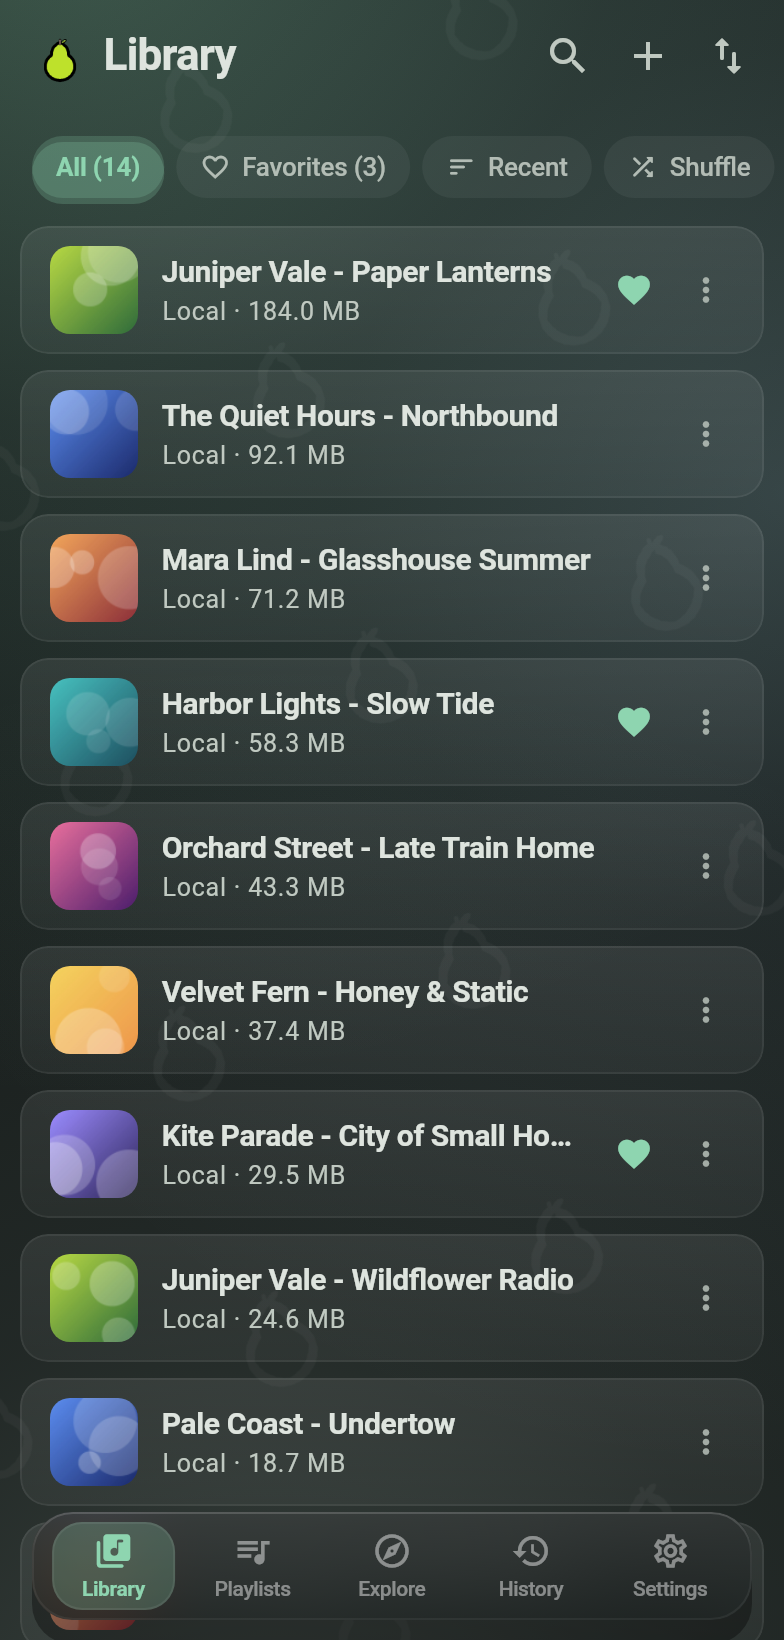
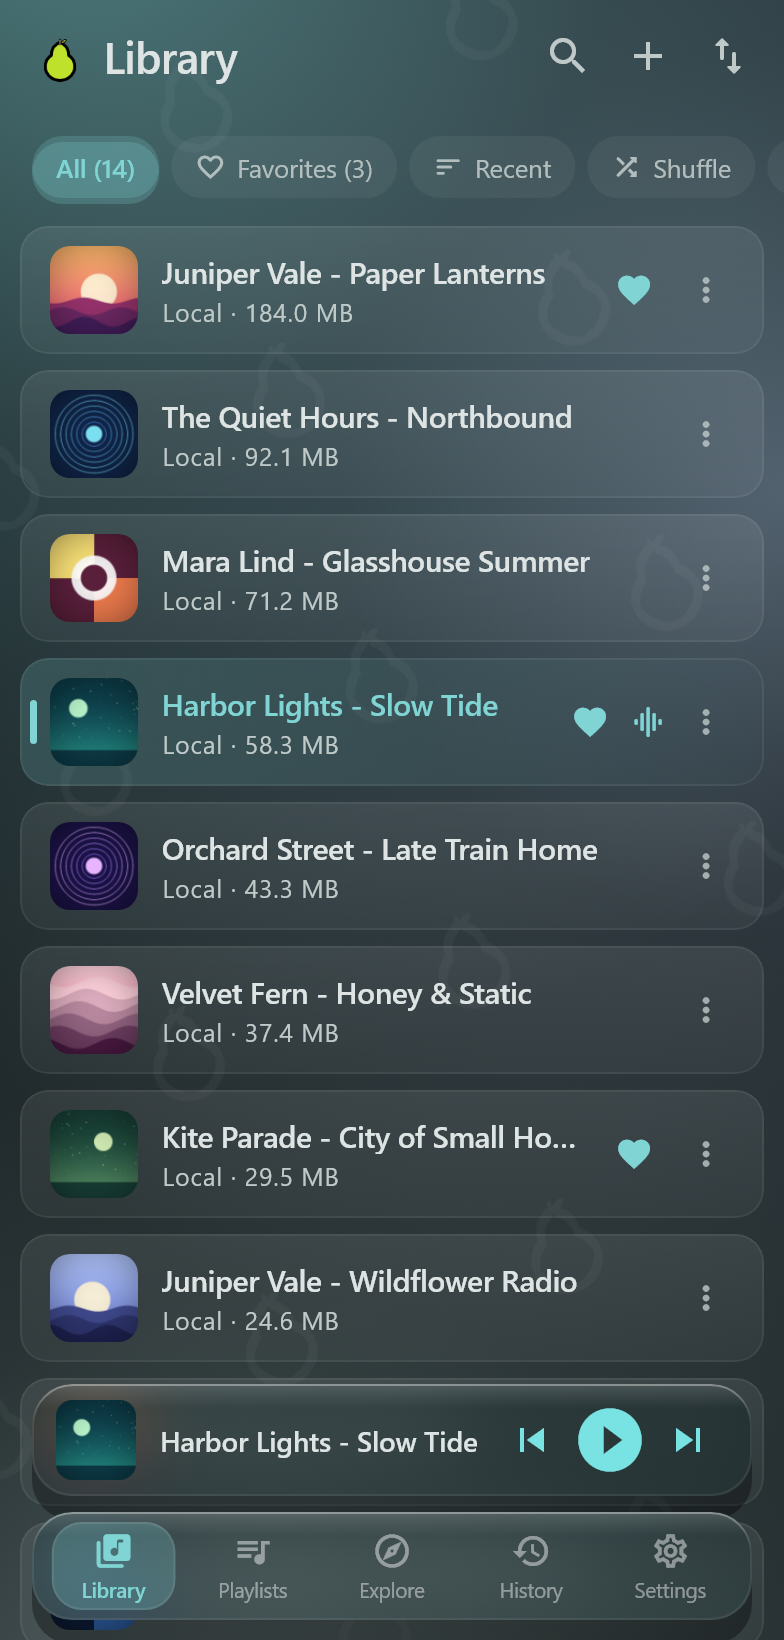
docs: the README shows the current look with sharper screenshots, the expanded player with its Video button and a phone player shot, and says what the first Android install asks for

diff --git a/app/tool/readme_shots/readme_shots_test.dart b/app/tool/readme_shots/readme_shots_test.dart
@@ -25,6 +25,9 @@ import 'package:peerm_app/services/identity_service.dart';
 import 'package:peerm_app/services/library_service.dart';
 import 'package:peerm_app/services/player_service.dart';
 import 'package:peerm_app/services/player_theme.dart';
+import 'package:peerm_app/services/video_service.dart';
+import 'package:peerm_app/screens/home_shell.dart';
+import 'package:peerm_app/widgets/player_bar.dart';
 import 'package:peerm_app/services/youtube_service.dart';
 import 'package:shared_preferences/shared_preferences.dart';
 
@@ -45,48 +48,150 @@ const _titles = [
   ('Blue Hour', 'Harbor Lights', 4),
 ];
 
+// Sky, ground and accent colours for the cover styles below.
 const _palettes = [
-  [0xFFB8D943, 0xFF2E6B3A],
-  [0xFF5B8DEF, 0xFF1B2A6B],
-  [0xFFF2A65A, 0xFF8C2F39],
-  [0xFF47C1BF, 0xFF1D4E5F],
-  [0xFFE86F9C, 0xFF4B1D6B],
-  [0xFFF4D35E, 0xFFEE964B],
-  [0xFF9B8CFF, 0xFF2B2356],
+  [0xFFFFB86B, 0xFFE0457B, 0xFF3B1B5A],
+  [0xFF7BDFF2, 0xFF3A7BD5, 0xFF0F2447],
+  [0xFFF9E076, 0xFFEE7B4D, 0xFF5A1F3B],
+  [0xFFB8F2C9, 0xFF2BA89A, 0xFF0C3B47],
+  [0xFFE8B4FF, 0xFF7F5AF0, 0xFF1A1245],
+  [0xFFFFD1DC, 0xFFFF6F91, 0xFF4A1942],
+  [0xFFCDE7B0, 0xFF6BAA75, 0xFF173F35],
+  [0xFFB2C7FF, 0xFF5C6BC0, 0xFF1B1F4D],
 ];
 
-/// A soft two-colour gradient with a few circles: reads as cover art at
-/// thumbnail size without being anyone's real artwork.
+img.ColorRgb8 _rgb(int c) =>
+    img.ColorRgb8((c >> 16) & 255, (c >> 8) & 255, c & 255);
+
+img.ColorRgb8 _mix(int a, int b, double t) {
+  final x = _rgb(a), y = _rgb(b);
+  return img.ColorRgb8(
+    (x.r + (y.r - x.r) * t).round(),
+    (x.g + (y.g - x.g) * t).round(),
+    (x.b + (y.b - x.b) * t).round(),
+  );
+}
+
+/// A composed cover (sunset hills, rings, waves, blocks, night sky) in a
+/// curated palette: reads as real album art without being anyone's.
 String _cover(int seed) {
   final pal = _palettes[seed % _palettes.length];
-  final a = img.ColorRgb8((pal[0] >> 16) & 255, (pal[0] >> 8) & 255, pal[0] & 255);
-  final b = img.ColorRgb8((pal[1] >> 16) & 255, (pal[1] >> 8) & 255, pal[1] & 255);
-  const size = 320;
+  final style = (seed ~/ 2 + seed) % 5;
+  const size = 360;
   final image = img.Image(width: size, height: size);
+  final rnd = math.Random(seed * 53 + 11);
+
+  // Vertical sky gradient for every style.
+  for (var y = 0; y < size; y++) {
+    final t = y / (size - 1);
+    final c = _mix(pal[0], pal[1], math.pow(t, 1.15).toDouble());
+    for (var x = 0; x < size; x++) {
+      image.setPixel(x, y, c);
+    }
+  }
+
+  switch (style) {
+    case 0: // sunset hills
+      img.fillCircle(image,
+          x: size ~/ 2 + rnd.nextInt(60) - 30,
+          y: (size * 0.52).round(),
+          radius: 74,
+          color: img.ColorRgba8(255, 244, 214, 235),
+          antialias: true);
+      for (var layer = 0; layer < 3; layer++) {
+        final base = size * (0.62 + layer * 0.12);
+        final c = _mix(pal[1], pal[2], 0.45 + layer * 0.25);
+        final phase = rnd.nextDouble() * 6;
+        for (var x = 0; x < size; x++) {
+          final y = base + math.sin(x / 38 + phase) * (12 + layer * 4);
+          img.drawLine(image,
+              x1: x, y1: y.round(), x2: x, y2: size, color: c);
+        }
+      }
+    case 1: // rings
+      img.fill(image, color: _rgb(pal[2]));
+      for (var i = 0; i < 7; i++) {
+        final r = 160 - i * 22;
+        img.drawCircle(image,
+            x: size ~/ 2,
+            y: size ~/ 2,
+            radius: r,
+            color: _mix(pal[0], pal[1], i / 6),
+            antialias: true);
+        img.drawCircle(image,
+            x: size ~/ 2, y: size ~/ 2, radius: r - 1,
+            color: _mix(pal[0], pal[1], i / 6), antialias: true);
+        img.drawCircle(image,
+            x: size ~/ 2, y: size ~/ 2, radius: r - 2,
+            color: _mix(pal[0], pal[1], i / 6), antialias: true);
+      }
+      img.fillCircle(image,
+          x: size ~/ 2, y: size ~/ 2, radius: 34, color: _rgb(pal[0]),
+          antialias: true);
+    case 2: // waves
+      for (var band = 0; band < 6; band++) {
+        final c = _mix(pal[0], pal[2], band / 5);
+        final base = size * (0.18 + band * 0.14);
+        final phase = band * 0.9 + rnd.nextDouble();
+        for (var x = 0; x < size; x++) {
+          final y = base + math.sin(x / 46 + phase) * 22;
+          img.drawLine(image,
+              x1: x, y1: y.round(), x2: x, y2: size, color: c);
+        }
+      }
+    case 3: // blocks
+      img.fill(image, color: _rgb(pal[2]));
+      img.fillRect(image,
+          x1: 0, y1: 0, x2: size ~/ 2, y2: size ~/ 2,
+          color: _rgb(pal[0]));
+      img.fillRect(image,
+          x1: size ~/ 2, y1: size ~/ 2, x2: size, y2: size,
+          color: _rgb(pal[1]));
+      img.fillCircle(image,
+          x: size ~/ 2, y: size ~/ 2, radius: 92,
+          color: img.ColorRgba8(255, 255, 255, 235), antialias: true);
+      img.fillCircle(image,
+          x: size ~/ 2, y: size ~/ 2, radius: 54,
+          color: _rgb(pal[2]), antialias: true);
+    default: // night sky
+      for (var y = 0; y < size; y++) {
+        final c = _mix(pal[2], pal[1], math.pow(y / size, 2.2).toDouble());
+        for (var x = 0; x < size; x++) {
+          image.setPixel(x, y, c);
+        }
+      }
+      for (var i = 0; i < 46; i++) {
+        img.fillCircle(image,
+            x: rnd.nextInt(size), y: rnd.nextInt((size * 0.7).round()),
+            radius: 1 + rnd.nextInt(2),
+            color: img.ColorRgba8(255, 255, 255, 120 + rnd.nextInt(130)),
+            antialias: true);
+      }
+      img.fillCircle(image,
+          x: 90 + rnd.nextInt(180), y: 90 + rnd.nextInt(60), radius: 38,
+          color: _rgb(pal[0]), antialias: true);
+      img.fillRect(image,
+          x1: 0, y1: (size * 0.82).round(), x2: size, y2: size,
+          color: _rgb(pal[2]));
+  }
+
+  // A touch of vignette so flat colour has some depth at big sizes.
   for (var y = 0; y < size; y++) {
     for (var x = 0; x < size; x++) {
-      final t = ((x + y) / (2 * size)).clamp(0.0, 1.0);
+      final dx = (x - size / 2) / (size / 2);
+      final dy = (y - size / 2) / (size / 2);
+      final v = (dx * dx + dy * dy) * 0.18;
+      final c = image.getPixel(x, y);
       image.setPixelRgb(
         x,
         y,
-        (a.r * (1 - t) + b.r * t).round(),
-        (a.g * (1 - t) + b.g * t).round(),
-        (a.b * (1 - t) + b.b * t).round(),
+        (c.r * (1 - v)).round(),
+        (c.g * (1 - v)).round(),
+        (c.b * (1 - v)).round(),
       );
     }
   }
-  final rnd = math.Random(seed * 31 + 7);
-  for (var i = 0; i < 3; i++) {
-    img.fillCircle(
-      image,
-      x: rnd.nextInt(size),
-      y: rnd.nextInt(size),
-      radius: 40 + rnd.nextInt(90),
-      color: img.ColorRgba8(255, 255, 255, 28 + rnd.nextInt(40)),
-      antialias: true,
-    );
-  }
-  return base64Encode(img.encodeJpg(image, quality: 88));
+  return base64Encode(img.encodeJpg(image, quality: 90));
 }
 
 List<Song> _songs() => [
@@ -94,7 +199,8 @@ List<Song> _songs() => [
     Song(
       id: 'demo_$i',
       title: '${_titles[i].$2} - ${_titles[i].$1}',
-      fileName: 'demo_$i.mp3',
+      // A video container, so the player offers its Video button.
+      fileName: 'demo_$i.${i == 3 ? 'mp4' : 'mp3'}',
       size: _titles[i].$3 * 1024 * 1024 + i * 91234,
       checksum: 'demo_$i',
       artwork: _cover(i),
@@ -183,6 +289,7 @@ void main() {
       controller: controller,
       playerTheme: PlayerTheme(player),
       history: history,
+      video: VideoService(player, library),
     );
   }
 
@@ -193,6 +300,8 @@ void main() {
     required double dpr,
     Song? playing,
     TargetPlatform platform = TargetPlatform.android,
+    bool expandPane = false,
+    bool openPlayer = false,
   }) async {
     debugDefaultTargetPlatformOverride = platform;
     tester.view.physicalSize = size * dpr;
@@ -203,9 +312,25 @@ void main() {
       await tester.runAsync(() => Future<void>.delayed(const Duration(milliseconds: 150)));
       await tester.pump(const Duration(milliseconds: 400));
     }
+    if (expandPane) {
+      HomeShell.requestExpandedPane();
+      // The expanded player builds a new, larger artwork: give its decode
+      // real time too.
+      for (var i = 0; i < 8; i++) {
+        await tester.runAsync(() => Future<void>.delayed(const Duration(milliseconds: 150)));
+        await tester.pump(const Duration(milliseconds: 300));
+      }
+    }
+    if (openPlayer) {
+      await tester.tap(find.byType(PlayerBar));
+      for (var i = 0; i < 6; i++) {
+        await tester.runAsync(() => Future<void>.delayed(const Duration(milliseconds: 120)));
+        await tester.pump(const Duration(milliseconds: 350));
+      }
+    }
     await expectLater(find.byType(MaterialApp), matchesGoldenFile('../../../.github/screenshots/$name.png'));
     await tester.pumpWidget(const SizedBox());
-    await tester.pump(const Duration(seconds: 5));
+    await tester.pump(const Duration(seconds: 12));
     debugDefaultTargetPlatformOverride = null;
     tester.view.resetPhysicalSize();
     tester.view.resetDevicePixelRatio();
@@ -215,14 +340,32 @@ void main() {
     await shoot(
       tester,
       name: 'desktop',
-      size: const Size(1440, 880),
-      dpr: 1,
+      size: const Size(1500, 900),
+      dpr: 1.4,
       playing: songs[3],
       platform: TargetPlatform.windows,
+      expandPane: true,
     );
   });
 
   testWidgets('phone library', (tester) async {
-    await shoot(tester, name: 'phone', size: const Size(392, 820), dpr: 2);
+    await shoot(
+      tester,
+      name: 'phone',
+      size: const Size(392, 820),
+      dpr: 2,
+      playing: songs[3],
+    );
+  });
+
+  testWidgets('phone player', (tester) async {
+    await shoot(
+      tester,
+      name: 'phone-player',
+      size: const Size(392, 820),
+      dpr: 2,
+      playing: songs[3],
+      openPlayer: true,
+    );
   });
 }

diff --git a/README.md b/README.md
@@ -22,9 +22,13 @@ Windows and Android. No account, no cloud, no ads.
 
 <br>
 
-<img src=".github/screenshots/desktop.png" alt="Pear Music on Windows: library with the Now Playing panel" width="74%">
-&nbsp;
-<img src=".github/screenshots/phone.png" alt="Pear Music on Android: library" width="21%">
+<img src=".github/screenshots/desktop.png" alt="Pear Music on Windows: the library and the expanded player with its queue" width="94%">
+
+<br><br>
+
+<img src=".github/screenshots/phone.png" alt="Pear Music on Android: the library with the mini player" width="25%">
+&nbsp;&nbsp;&nbsp;
+<img src=".github/screenshots/phone-player.png" alt="Pear Music on Android: the player with the Video and Lyrics buttons" width="25%">
 
 </div>
 
@@ -41,6 +45,7 @@ Windows and Android. No account, no cloud, no ads.
 - Plays the audio files already on your device, even with no internet
 - Full-size artwork with background colours taken from the cover
 - Waveform seek bar and an optional visualizer
+- **Video**: a button next to the lyrics shows the picture of a song (streamed songs, and video files on Windows). A quality setting keeps mobile data use low
 - Sleep timer: end of song, countdown, or end of queue
 - Speed from 0.5x to 2x, plus volume levelling between songs
 
@@ -115,6 +120,8 @@ Grab the latest build below, or browse every file on the [releases page](https:/
 | **Android** | [ARMv7 APK](https://github.com/Boci0/Pear-Music/releases/latest/download/PearMusic-Android-armv7.apk) | Older 32-bit phones only. |
 
 You only pick once. After that, in-app updates fetch the right file for your device on their own.
+
+**First install on Android:** the phone will ask you to allow installing apps from your browser or file manager, and Play Protect (or your phone's own security app) may ask you to confirm, because the app is not from the Play Store. Choose to install anyway. You can compare the file with the checksum below first.
 
 <details>
 <summary><b>Check that your download is genuine</b></summary>
